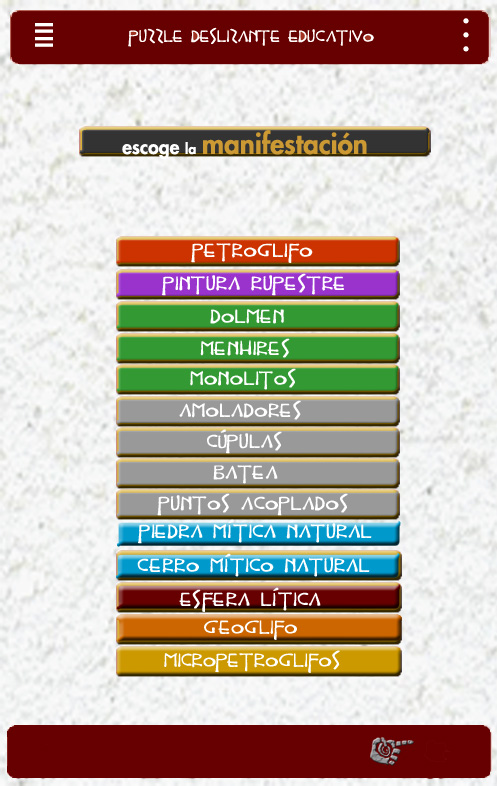
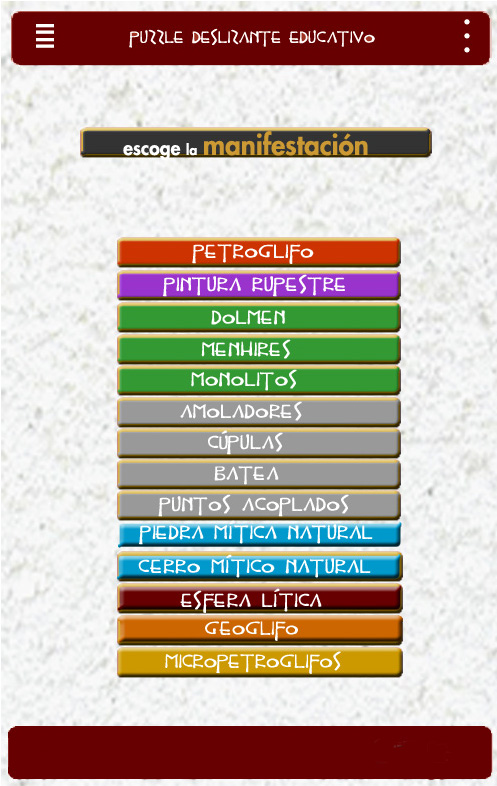
Modificada vista de selección de tipo de representación

diff --git a/www/index.html b/www/index.html
@@ -101,9 +101,10 @@
                style="display:block; width:56%; height:4%; position:absolute; left: 23%; top: 82%;"
                onclick="seleccionarTipoRepresentacion(14);mostrarImagenInfo();"></a>
                
-            
+            <!--
             <a style="display:block; width:30%; height:6%; position:absolute; left: 70%; top: 92%;"
                onclick="mostrarImagenInfo();"></a>
+               -->
     </div>
     <!-- Fin Vista Seleccionar Tipo de Representación -->
     
